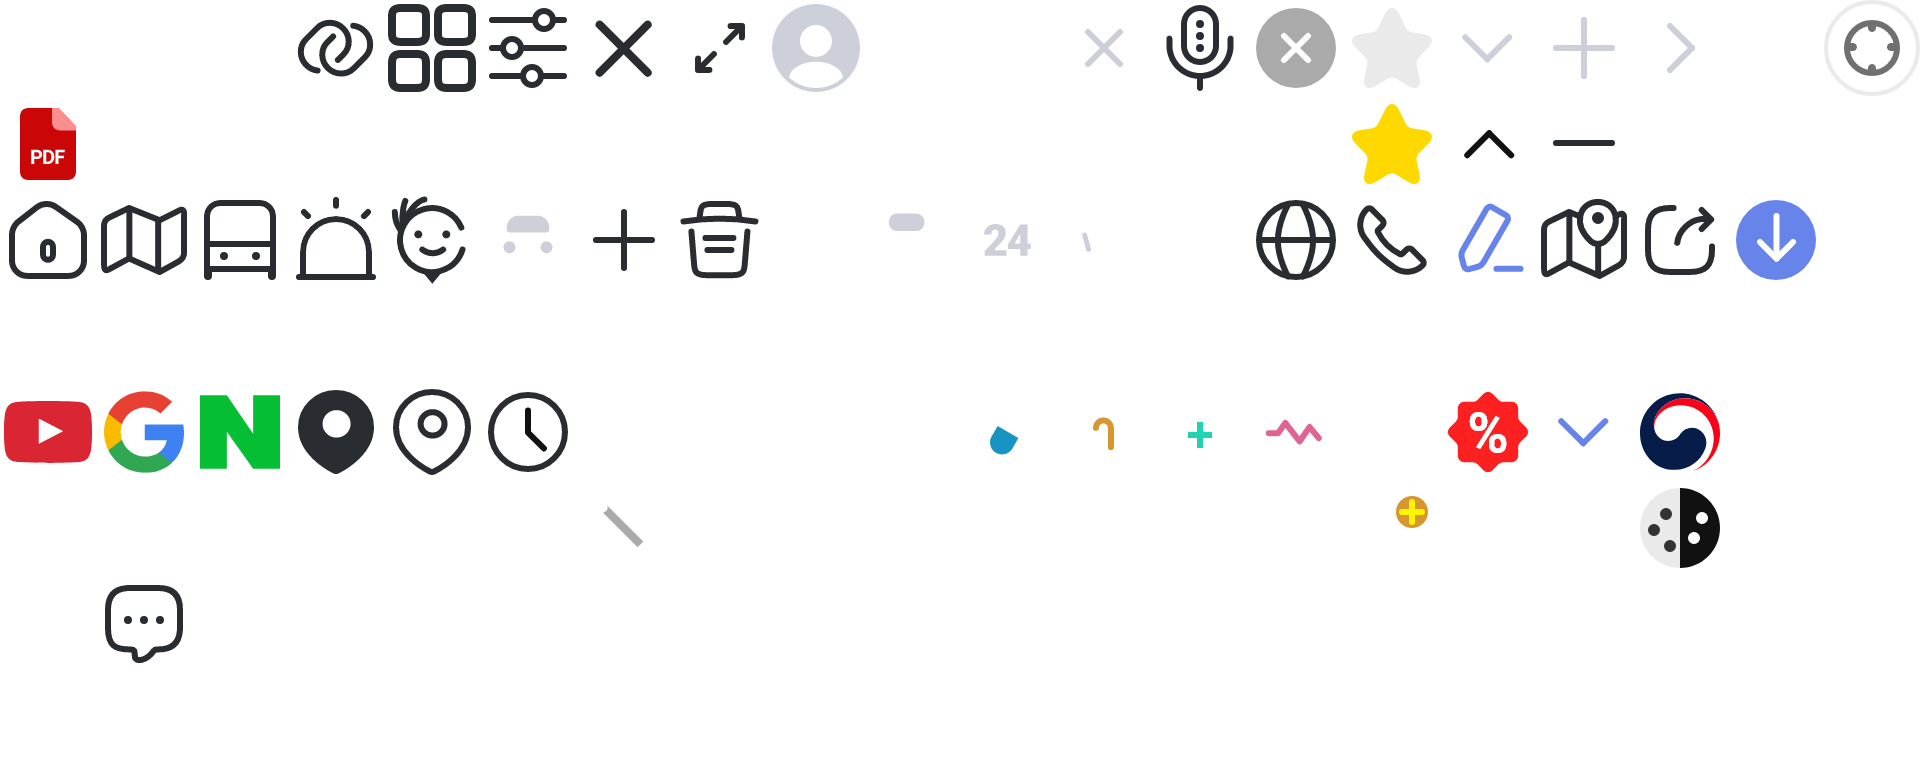
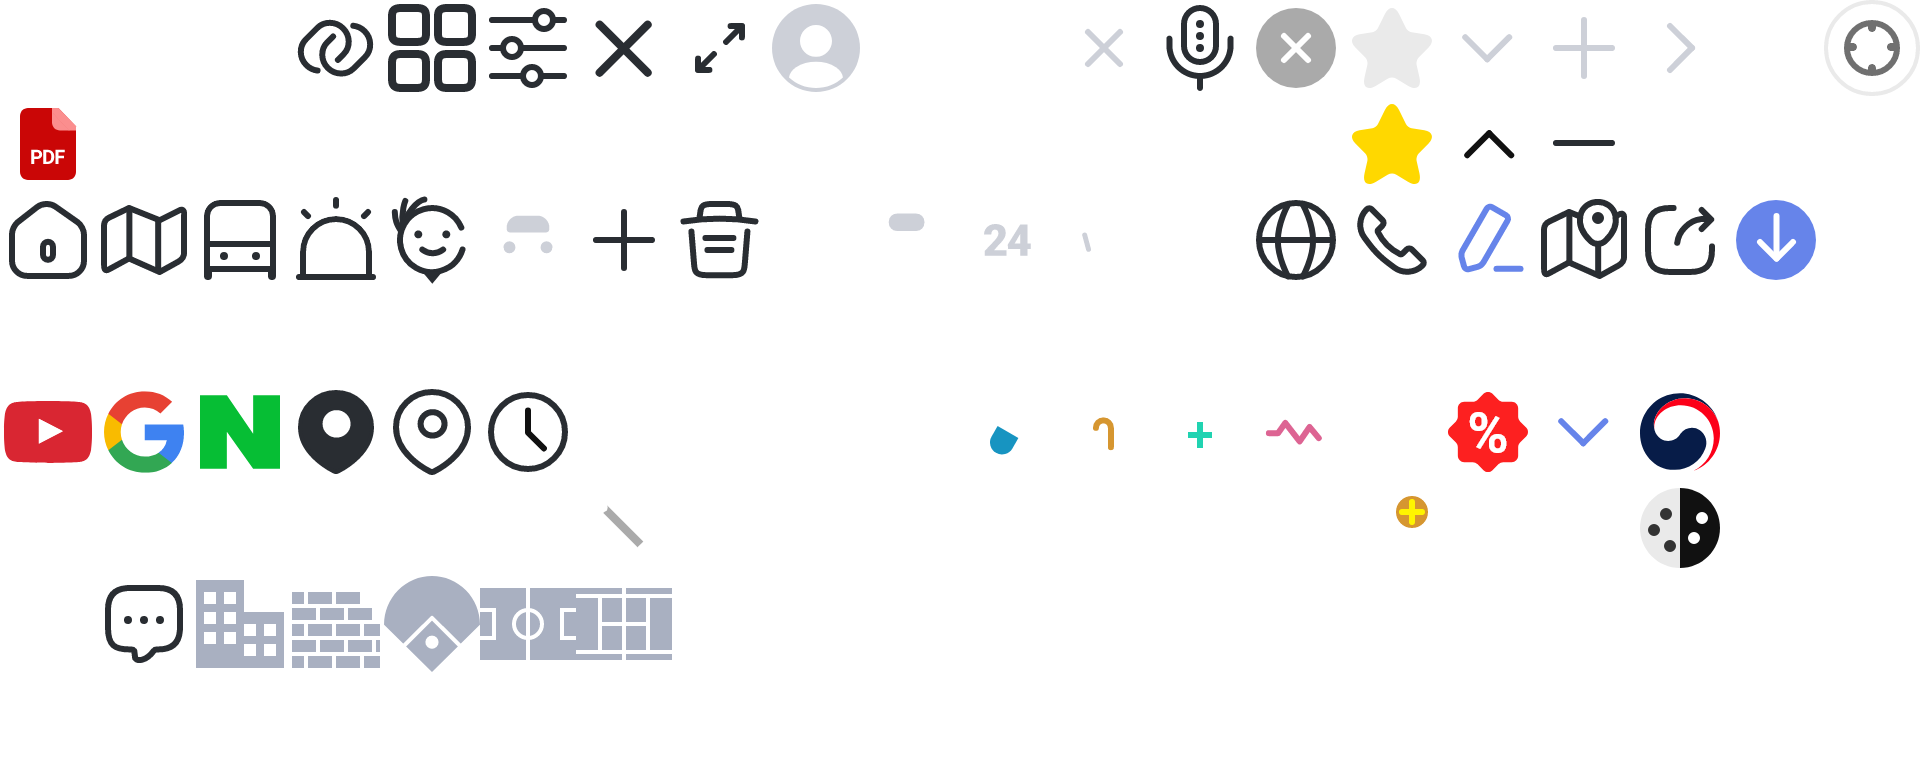
UI-SJN-41-002L 등록

Changed region(s): [[0.0938, 0.75, 0.375, 0.875]]

diff --git a/html/map/UI-SJN-41-002L.html b/html/map/UI-SJN-41-002L.html
@@ -1,0 +1,193 @@
+<!DOCTYPE HTML>
+<html lang="ko">
+<head>
+	<meta charset="utf-8" />
+	<script src="../include/head.js"></script>
+</head>
+
+<body>
+<div id="root">
+	<div class="container">
+		<!-- 공통: 서브 헤더 -->
+		<script src="../include/header_sub.js"></script>
+		<!-- //공통: 서브 헤더 -->
+
+		<!-- 본문 -->
+		<main class="contents map"> <!-- [생활정보 Class] map-->
+			<h2 class="visible"><div class="headerClone">도시변화(위성영상)</div></h2> <!-- [헤더에 넣어줄 제목] -->
+			
+			<div class="mapWrap">
+				<div class="mapArea fixed"> <!-- fixed 하단 정보영역 고정일 경우 사용 -->
+					<!-- 기타 아이콘들 -->
+					<div class="mapIcons">
+						<button type="button" class="btnPin active"><i>핀</i></button>
+
+						<div class="gesture"> <!-- hide 클래스 추가 시 사라집니다. -->
+							<p>
+								마우스를<br />
+								위 아래로 움직이세요
+							</p>
+						</div>
+
+						<div class="location">
+							<button type="button" class="myLocation"><i>현재위치</i></button> <!-- 활성화시 버튼에 active 추가 -->
+							<div class="scaleBtn">
+								<button type="button" class="scaleUp"><i>확대</i></button>
+								<button type="button" class="scaleDown"><i>축소</i></button>
+							</div>
+						</div>
+					</div>
+					<!-- //기타 아이콘들 -->
+					
+					<!-- 정보 영역 -->
+					<div class="mapInfoLayer">
+						<div class="mapIHead">
+							<button type="button" class="btnMapInfo">정보영역</button>
+						</div>
+						<div class="transformBody">
+							<header class="head">
+								<h3>도시변화</h3>
+								<span>2015.10.28~2019.01.29</span>
+							</header>
+							
+							<nav id="transformNavSwiper" class="transformNavList">
+								<div class="slideContainer">
+									<ul class="swiper-wrapper">
+										<li class="swiper-slide">
+											<button type="button" class="apartment">
+												<span class="box"><i></i></span>
+												<span class="text">아파트<b class="plus">+396</b></span>
+											</button>
+										</li>
+										<li class="swiper-slide">
+											<button type="button" class="building">
+												<span class="box"><i></i></span>
+												<span class="text">건축물<b class="plus">+396</b></span>
+											</button>
+										</li>
+										<li class="swiper-slide">
+											<button type="button" class="baseballS">
+												<span class="box"><i></i></span>
+												<span class="text">야구장<b class="plus">+31</b></span>
+											</button>
+										</li>
+										<li class="swiper-slide">
+											<button type="button" class="soccerF">
+												<span class="box"><i></i></span>
+												<span class="text">축구장<b class="plus">+6</b></span>
+											</button>
+										</li>
+										<li class="swiper-slide">
+											<button type="button" class="tennisC">
+												<span class="box"><i></i></span>
+												<span class="text">테니스장<b class="plus">+4</b></span>
+											</button>
+										</li>
+										<li class="swiper-slide">
+											<button type="button" class="forestA">
+												<span class="box"><i></i></span>
+												<span class="text">산림영역<b class="minus">-9.57%</b></span>
+											</button>
+										</li>
+										<li class="swiper-slide">
+											<button type="button" class="farmland">
+												<span class="box"><i></i></span>
+												<span class="text">농경지<b class="minus">-323.23%</b></span>
+											</button>
+										</li>
+									</ul>
+								</div>
+							</nav>
+							<script>
+								slider.active('transformNavSwiper')
+							</script>
+						</div>
+					</div>
+					<!-- //정보 영역 -->
+
+					<div class="mapBg2"></div> <!-- map 이미지 -->
+				</div>
+			</div>
+		</main>
+		<!-- //본문 -->
+
+		<!-- 레이어 -->
+		<div id="layerSatelliteComparison" class="layerPopup">
+			<div class="layerWrap typeBot">
+				<h4>인공위성영상 선택</h4>
+				<div class="layerReplace">
+					<div class="control">
+						<p>비교 위성영상 2개를 선택하세요.</p>
+						<span><i></i>변화비교 시 수 초~ 수 분이 소요될 수 있습니다.</span>
+					</div>
+					<div class="layerBody">
+						<ul class="items-label">
+							<li>
+								<div class="labelForm">
+									<input type="checkbox" name="checkbox" id="list0">
+									<label for="list0">2021-03-21</label>
+								</div>
+							</li>
+							<li>
+								<div class="labelForm">
+									<input type="checkbox" name="checkbox" id="list1">
+									<label for="list1">2021-03-22</label>
+								</div>
+							</li>
+							<li>
+								<div class="labelForm">
+									<input type="checkbox" name="checkbox" id="list2">
+									<label for="list2">2021-03-23</label>
+								</div>
+							</li>
+							<li>
+								<div class="labelForm">
+									<input type="checkbox" name="checkbox" id="list3">
+									<label for="list3">2021-03-24</label>
+								</div>
+							</li>
+							<li>
+								<div class="labelForm">
+									<input type="checkbox" name="checkbox" id="list4">
+									<label for="list4">2021-03-25</label>
+								</div>
+							</li>
+							<li>
+								<div class="labelForm">
+									<input type="checkbox" name="checkbox" id="list5">
+									<label for="list5">2021-03-26</label>
+								</div>
+							</li>
+							<li>
+								<div class="labelForm">
+									<input type="checkbox" name="checkbox" id="list6">
+									<label for="list6">2021-03-27</label>
+								</div>
+							</li>
+							<li>
+								<div class="labelForm">
+									<input type="checkbox" name="checkbox" id="list7">
+									<label for="list7">2021-03-28</label>
+								</div>
+							</li>
+							<li>
+								<div class="labelForm">
+									<input type="checkbox" name="checkbox" id="list8">
+									<label for="list8">2021-03-29</label>
+								</div>
+							</li>
+						</ul>
+						<div class="twins">
+							<button type="button" class="button whiteLine">취소</button>
+							<button type="button" class="button blue">확인</button>
+						</div>
+					</div>
+				</div>
+				<button type="button" class="btnClose" onclick="layerPopup.close();">창닫기</button>
+			</div>
+		</div>
+		<!-- //레이어 -->
+	</div>
+</div>
+</body>
+</html>

diff --git a/public/styles/gbMap.css b/public/styles/gbMap.css
@@ -169,6 +169,9 @@ body { --vh: 1px;}
 .map .mapIcons .busStop .busLocation { position: absolute;}
 .map .mapIcons .busStop .busLocation i { display: block; width: 3.2rem; height: 4.25rem; text-indent: -9999rem; background: url(../image/map/ico_busLocation.png) no-repeat center/cover;}
 .map .mapIcons .busStop .busLocation .box { display: block; width: 10rem; margin: 0.7rem 0 0 -3.3rem; padding: 0.4rem 0; font-size: 1.4rem; color: #555; text-align: center; background-color: #fff; border: 1px solid #A9B0C1;}
+.map .mapIcons .gesture { position: absolute; left: 50%; top: 50%; display: flex; align-items: center; justify-content: center; width: 14.8rem; height: 14.8rem; background: rgba(17 17 17 / 90%) url(../image/map/ico_gesture.png) no-repeat center/0.975rem 10.15rem; transform: translate(-50%, -100%); border-radius: 50%; transition: opacity .3s ease-in-out;}
+.map .mapIcons .gesture p { font-size: 1.4rem; color: #fff; text-align: center; line-height: 2rem;}
+.map .mapIcons .gesture.hide { opacity: 0; z-index: -1;}
 
 .map .lnb { display: none; position: fixed; z-index: 100; top: 0; right: 0; bottom: 0; left: 0; background: rgba(0,0,0,0.25); outline: none; transition: opacity .3s;}
 .map .lnb .lnbBody { overflow-x: hidden; overflow-y: auto; position: absolute; right: 0; top: 0; bottom: 0; width: calc(100% - 6rem); background: #fff; transform: translateX(100%); transition: transform .5s;}
@@ -608,6 +611,27 @@ span.M { background-color: #FD2020;}
 .map .satelliteBody .satelliteList ul li .sTime { display: flex; align-items: center; justify-content: center; height: 2.2rem; margin-top: 0.8rem; font-size: 1.6rem; color: #555;}
 .map .satelliteBody .satelliteList .empty { display: flex; align-items: center; justify-content: center; height: 10rem; padding: 0 2rem; font-size: 1.4rem; color: #aaa; text-align: center; background-color: #F4F5F7;}
 .map .satelliteBody .offerer { margin-top: 0.8rem; font-size: 1.4rem; color: #aaa; border-top: none;}
+
+/* UI-SJN-41-002L */
+.map .transformBody .head { display: flex; align-items: center; height: 4.8rem; padding: 0 2rem;}
+.map .transformBody .head h3 { font-size: 1.8rem;}
+.map .transformBody .head span { margin-left: 0.8rem; font-family: var(--fontRoboto); font-size: 1.4rem; color: #777; letter-spacing: 0;}
+.map .transformBody .transformNavList { overflow: hidden; padding: 0 2rem;}
+.map .transformBody .transformNavList li { width: 5.6rem;}
+.map .transformBody .transformNavList li button { display: block; align-items: center; justify-content: center; width: 100%;}
+.map .transformBody .transformNavList li button .box { display: flex; align-items: center; justify-content: center; width: 100%; height: 5.6rem; border: 1px solid #F4F5F7;}
+.map .transformBody .transformNavList li button .box i { width: 2.4rem; height: 2.4rem; background: url(../image/common/split_48.png) no-repeat 0rem 0/48rem 19.2rem;}
+.map .transformBody .transformNavList li button.apartment .box i { background-position: -4.8rem -14.4rem;}
+.map .transformBody .transformNavList li button.building .box i { background-position: -7.2rem -14.4rem;}
+.map .transformBody .transformNavList li button.baseballS .box i { background-position: -9.6rem -14.4rem;}
+.map .transformBody .transformNavList li button.soccerF .box i { background-position: -12rem -14.4rem;}
+.map .transformBody .transformNavList li button.tennisC .box i { background-position: -14.4rem -14.4rem;}
+.map .transformBody .transformNavList li button.forestA .box i { background-position: -16.8rem -14.4rem;}
+.map .transformBody .transformNavList li button.farmland .box i { background-position: -19.2rem -14.4rem;}
+.map .transformBody .transformNavList li button .text { display: block; margin-top: 0.8rem; color: #555; letter-spacing: -0.1em;}
+.map .transformBody .transformNavList li button .text b { display: block; margin-top: 0.2rem; font-family: var(--fontRoboto); font-size: 1.4rem; font-weight: 700; letter-spacing: 0;}
+.map .transformBody .transformNavList li button .text b.plus { color: #6684EA;}
+.map .transformBody .transformNavList li button .text b.minus { color: #FD2020;}
 
 /* UI-SJN-60-004L */
 .map .listArea { flex: 1; overflow-x: hidden; overflow-y: auto; padding: 0 0 4rem;}

diff --git a/public/styles/globals.css b/public/styles/globals.css
@@ -800,6 +800,12 @@ figure .label.green { background-color: rgba(78, 196, 87, 0.9);}
 .layerReplace .replaceList li .etc span { font-size: 1.4rem;}
 .layerReplace .replaceList li .etc span ~ span { position: relative; margin-left: 0.3rem; padding-left: 0.8rem;}
 .layerReplace .replaceList li .etc span ~ span::after { content: ''; display: block; position: absolute; left: 0; top: 0.4rem; width: 0.1rem; height: 1.4rem; background-color: #e1e1e1;}
+.layerReplace .control p { display: flex; align-items: center; margin-top: 0.8rem; font-size: 1.6rem;}
+.layerReplace .control span { display: flex; align-items: center; margin-top: 0.8rem; font-size: 1.4rem; color: #FD2020;}
+.layerReplace .control span i { display: flex; align-items: center; justify-content: center; width: 1.6rem; height: 1.6rem; margin: -0.1rem 0.4rem 0 0; background: #FD2020 url(../image/common/split_40.png) no-repeat -12.2rem -4.2rem/40rem 8rem; border-radius: 50%;}
+.layerReplace .layerBody .items-label { overflow-x: hidden; overflow-y: auto; max-height: 30rem; margin-top: 1.6rem;}
+.layerReplace .layerBody .twins { margin-top: 0;}
+
 
 /* *-모음
 **********************************************/

diff --git a/html/guide/ia.html b/html/guide/ia.html
@@ -567,15 +567,15 @@
 						<td>도시변화</td>
 						<td><a href="../../html/map/UI-SJN-41-001L.html" class="active" target="_blank">UI-SJN-41-001L</a></td>
 						<td class="tac active">D</td>
-						<td class="tac"></td>
+						<td class="tac active">L</td>
 					</tr>
 					<tr>
 						<td></td>
 						<td></td>
 						<td></td>
-						<td><a href="../../html/map/UI-SJN-41-002L.html" target="_blank">UI-SJN-41-002L</a></td>
+						<td><a href="../../html/map/UI-SJN-41-002L.html" class="active" target="_blank">UI-SJN-41-002L</a></td>
 						<td class="tac active">D</td>
-						<td class="tac"></td>
+						<td class="tac active">L</td>
 					</tr>
 					<tr>
 						<td></td>

diff --git a/html/js/slider.js b/html/js/slider.js
@@ -118,6 +118,11 @@ const slideOpt = {
     slidesPerView: 'auto',
 		spaceBetween: 8,
 	},
+	/* UI-SJN-41-002L */
+	transformNavSwiper: {
+    slidesPerView: 'auto',
+		spaceBetween: 8,
+	},
   merge : function(key){
     let merged = {...this.default, ...this[key]}
 		return merged;

diff --git a/README.md b/README.md
@@ -7,6 +7,7 @@
 - UI-SJN-40-006L 등록
 - UI-SJN-40-007L 등록
 - UI-SJN-41-001L 등록
+- UI-SJN-41-002L 등록
 
 ### 02-07
 - UI-SJN-40-003L 등록
